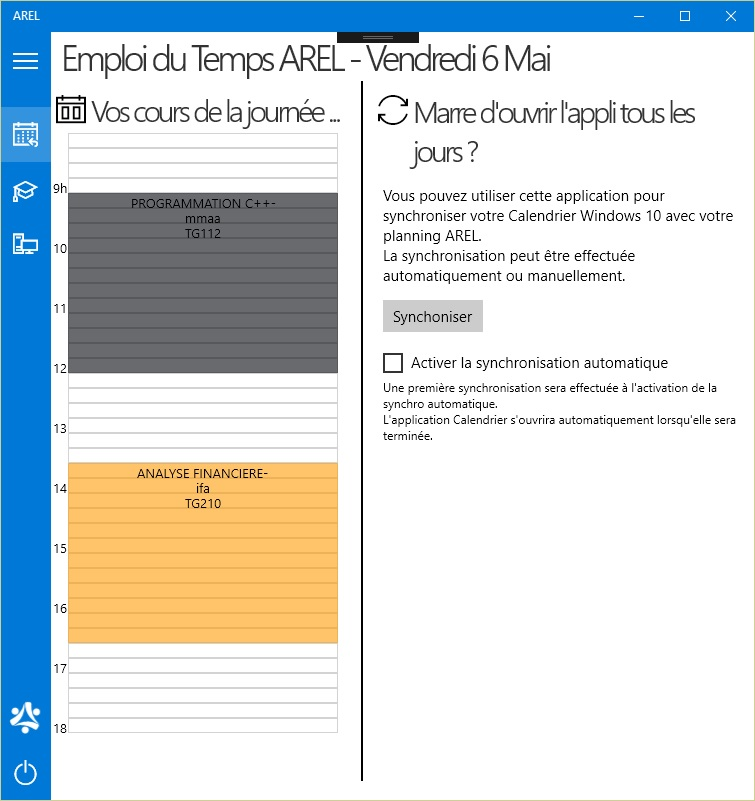
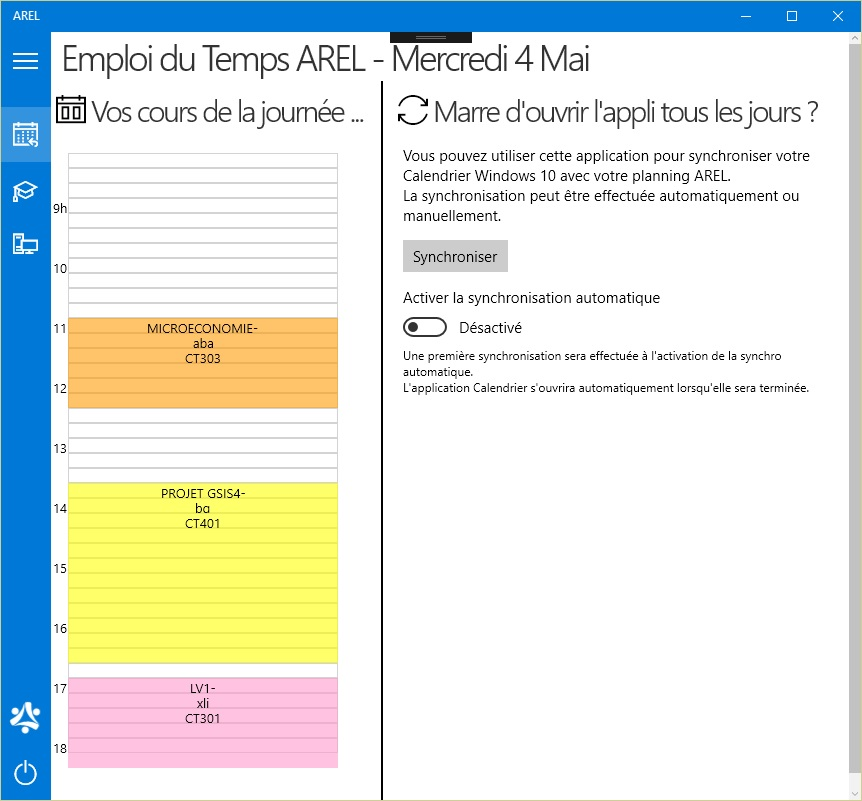
màj readme

diff --git a/arelv1/Pages/Planning.xaml b/arelv1/Pages/Planning.xaml
@@ -16,7 +16,7 @@
 
             <Grid Height="50" x:Name="button_week">
 
-                <TextBlock x:Name="dateJour" FontSize="36" HorizontalAlignment="Left" CharacterSpacing="-100" FontWeight="SemiLight" Margin="10,0,0,0" Foreground="#FF323232" TextWrapping="Wrap">
+                <TextBlock x:Name="dateJour" FontSize="36" HorizontalAlignment="Left" CharacterSpacing="-70" FontWeight="SemiLight" Margin="10,0,0,0" Foreground="#FF323232" TextWrapping="Wrap">
         		<Run Text="Emploi du Temps AREL - Jour X"/>
                 </TextBlock>
 
@@ -24,7 +24,7 @@
 
             <Grid BorderThickness="0" BorderBrush="Black" >
                 <Grid.ColumnDefinitions >
-                    <ColumnDefinition MaxWidth="310"/>
+                    <ColumnDefinition MaxWidth="330"/>
                     <ColumnDefinition />
                 </Grid.ColumnDefinitions>
 
@@ -36,7 +36,7 @@
                                 <CompositeTransform ScaleY="1.5" ScaleX="1.5"/>
                             </SymbolIcon.RenderTransform>
                         </SymbolIcon>
-                        <TextBlock  FontSize="30" HorizontalAlignment="Left" CharacterSpacing="-100" FontWeight="SemiLight" Margin="40,8,0,20" Foreground="#FF323232" TextWrapping="Wrap">
+                        <TextBlock  FontSize="30" HorizontalAlignment="Left" CharacterSpacing="-70" FontWeight="SemiLight" Margin="40,8,0,20" Foreground="#FF323232" TextWrapping="Wrap">
         		<Run Text="Vos cours de la journée ..."/>
                         </TextBlock>
                     </Grid>
@@ -108,7 +108,7 @@
                                 <CompositeTransform ScaleY="1.5" ScaleX="1.5"/>
                             </SymbolIcon.RenderTransform>
                         </SymbolIcon>
-                        <TextBlock  FontSize="30" HorizontalAlignment="Left" CharacterSpacing="-100" FontWeight="SemiLight" Margin="50,8,0,0" Foreground="#FF323232" TextWrapping="Wrap">
+                        <TextBlock  FontSize="30" HorizontalAlignment="Left" CharacterSpacing="-70" FontWeight="SemiLight" Margin="50,8,0,0" Foreground="#FF323232" TextWrapping="Wrap">
         		<Run Text="Marre d'ouvrir l'appli tous les jours ?"/>
                         </TextBlock>
                     </Grid>
@@ -117,7 +117,7 @@
                     <TextBlock  Margin="20,0,0,0" FontSize="15" TextWrapping="Wrap">La synchronisation peut être effectuée automatiquement ou manuellement.</TextBlock>
 
                     <Grid>
-                        <Button Margin="20,15,0,0" x:Name="SyncNow" Click="ManualSync">Synchoniser</Button>
+                        <Button Margin="20,15,0,0" x:Name="SyncNow" Click="ManualSync">Synchroniser</Button>
                         <ProgressRing x:Name="SpinnerSync" Margin="130,15,0,0" HorizontalAlignment="Left"/>
                     </Grid>
                     <ToggleSwitch Margin="20,15,0,0" x:Name="BackgroundSyncSwitch" Header="Activer la synchronisation automatique" Toggled="AutoSync"/>

diff --git a/arelv1/Pages/Salles.xaml b/arelv1/Pages/Salles.xaml
@@ -17,7 +17,7 @@
 
             <StackPanel>
                 <Grid>
-                    <TextBlock FontSize="36" HorizontalAlignment="Left" CharacterSpacing="-100" FontWeight="SemiLight" Margin="09,0,0,15" Foreground="#FF323232">Disponibilité des Salles</TextBlock>
+                    <TextBlock FontSize="36" HorizontalAlignment="Left" CharacterSpacing="-70" FontWeight="SemiLight" Margin="09,0,0,15" Foreground="#FF323232">Disponibilité des Salles</TextBlock>
 
                     <ComboBox x:Name="campusSelection"  Height="40" Width="125"  Margin="0,7,19,0"
                      ItemsSource="{x:Bind campusList}" SelectionChanged="writeSalle" SelectedItem="{x:Bind SelectedComboBoxOption}" HorizontalAlignment="Right" />
